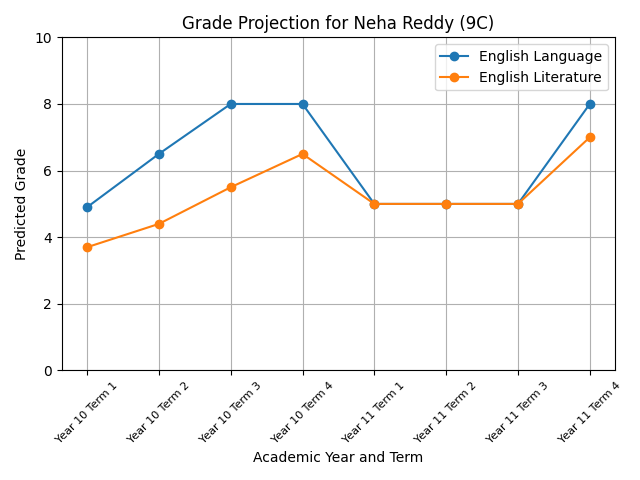
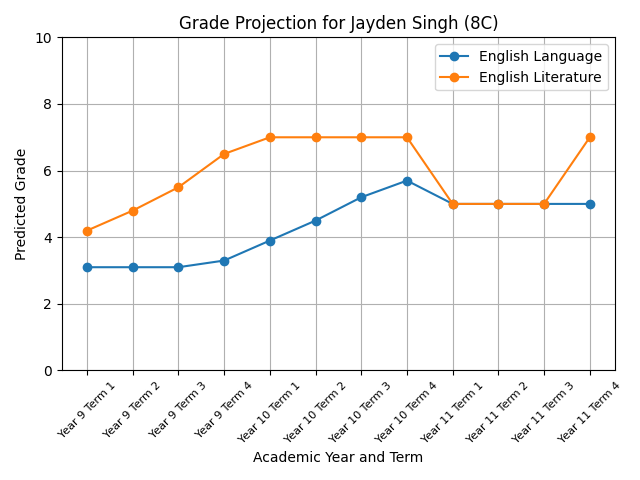
Add dependencies file and clean up CSS comments
Added dependencies.txt to specify required Python packages for the project. Removed excessive comments from class_students.css for improved readability. Deleted unused test script.

diff --git a/website/static/css/class_students.css b/website/static/css/class_students.css
@@ -1,4 +1,3 @@
-/* General styling for the body to set font, background, and layout */
 body {
   font-family: Arial, sans-serif;
   margin: 0;
@@ -13,7 +12,6 @@ body {
   overflow-x: hidden; /* Prevent horizontal scrolling */
 }
 
-/* Styling for the page wrapper to enable side-by-side layout with navbar */
 .page-wrapper {
   display: flex;
   flex-direction: row;
@@ -21,51 +19,44 @@ body {
   width: 100vw;
 }
 
-/* Styling for the container holding the table */
 .container {
   background: #2b2f2b;
   padding: 20px;
   border-radius: 10px;
   box-shadow: 0 4px 10px rgba(0, 0, 0, 0.5);
   text-align: center;
-  width: 90%; /* Adjust width to fit within the window */
+  width: 90%;
   max-width: 800px;
-  margin-top: 20px; /* Add spacing from the top */
+  margin-top: 20px;
   margin-left: auto;
   margin-right: auto;
 }
 
-/* Styling for the header */
 h1 {
   font-size: 2rem;
   margin-bottom: 10px;
 }
 
-/* Styling for the table */
 table {
   width: 100%;
   border-collapse: collapse;
   margin: 20px 0;
 }
 
-/* Styling for table borders */
 table, th, td {
   border: 1px solid #ddd;
 }
 
-/* Styling for table cells */
 th, td {
   padding: 10px;
   text-align: left;
 }
 
-/* Styling for table headers */
 th {
   background-color: #4d7253;
   color: white;
 }
 
-/* Hover effect for table rows */
 tr:hover {
   background-color: #3d5c44;
 }
@@ -77,12 +68,10 @@ tr:hover {
   margin-right: 10px;
 }
 
-/* Center the projections icon in its cell */
 td:first-child {
   text-align: center;
 }
 
-/* Style student name links to remove blue color and underline */
 td a {
   color: #f0f0f0;
   text-decoration: none;
